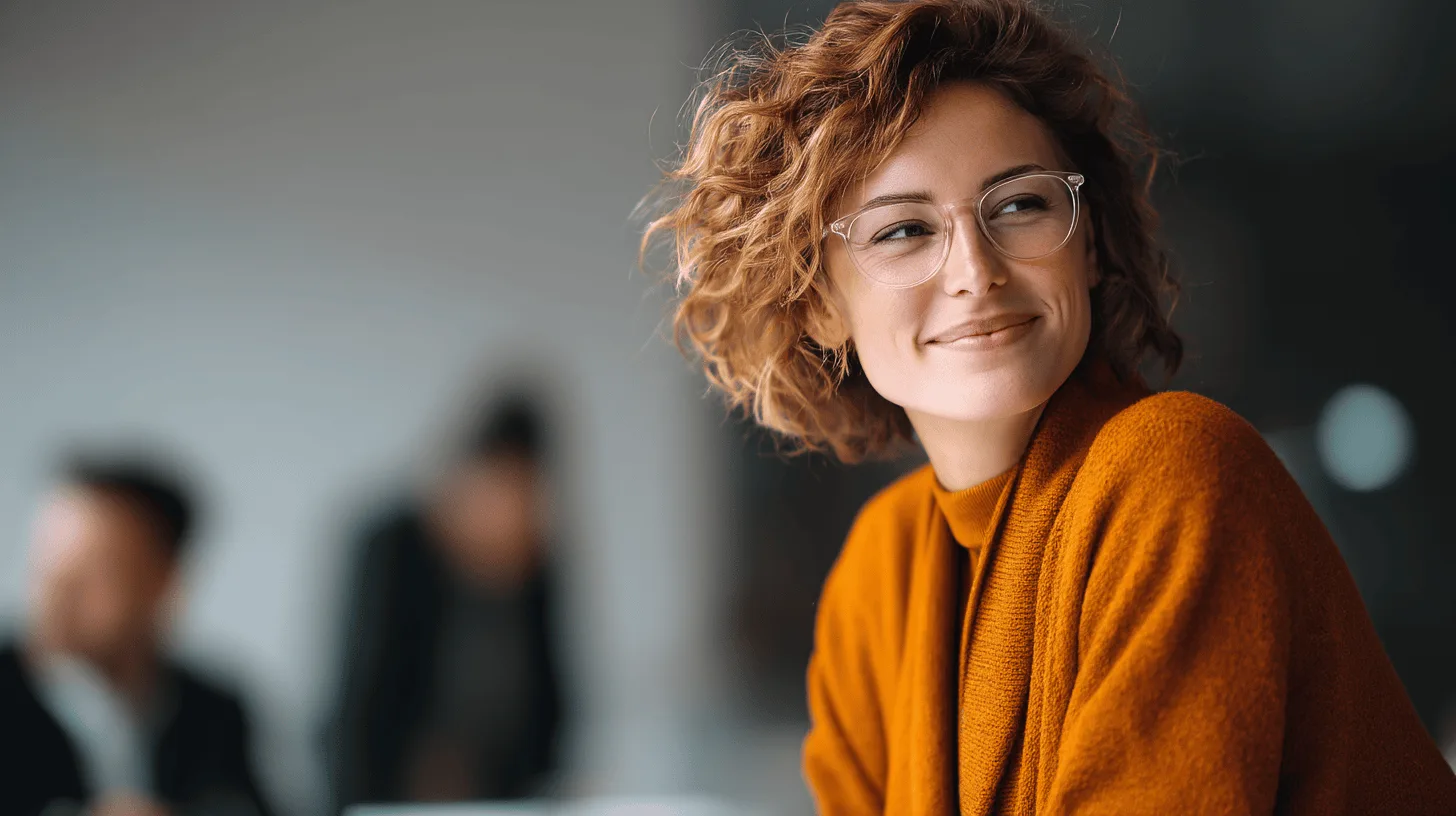
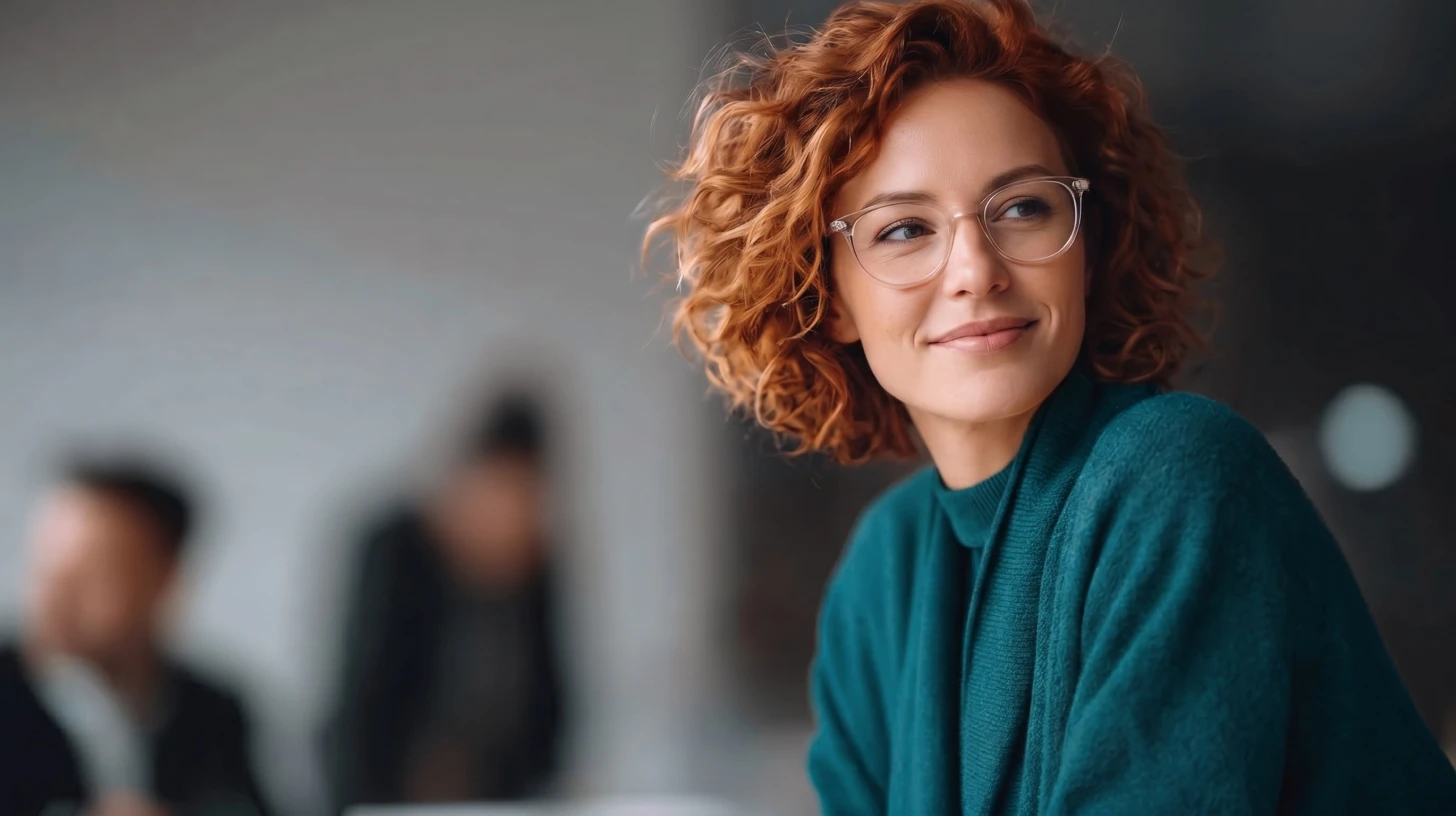
nova hero

Changed region(s): [[0.4327, 0.0, 1.0, 1.0]]

diff --git a/components/sections/PlanosChamada.tsx b/components/sections/PlanosChamada.tsx
@@ -1,5 +1,47 @@
-/** Chamada dos planos, logo antes do trilho. */
-export function PlanosChamada() {
+import type { ComponentChildren } from "preact";
+
+/**
+ * Chamada dos planos.
+ *
+ * Em duas formas. A padrão traz a colagem ao lado do texto e serve de
+ * abertura para o trilho de planos. A `centralizada` tira a colagem, alinha
+ * o texto ao centro e recebe conteúdo abaixo — usada quando a chamada
+ * apresenta o carrossel de heros em vez do trilho de preços.
+ *
+ * Na forma centralizada o botão "Ver planos" sai: ali embaixo vem o
+ * carrossel, e um botão que leva para outra página no meio do caminho
+ * disputaria com ele.
+ */
+export function PlanosChamada(
+  { centralizada = false, children }: {
+    centralizada?: boolean;
+    children?: ComponentChildren;
+  } = {},
+) {
+  const texto = (
+    <>
+      <span class="tagline">Planos simplificados</span>
+      <h2 class="title">
+        <b>Plano simples</b>, infinitas <em>possibilidades</em>
+      </h2>
+      <p class="para">
+        Escolha um plano que se adapte às suas necessidades. Economize e
+        simplifique seus custos
+      </p>
+    </>
+  );
+
+  if (centralizada) {
+    return (
+      <section class="section">
+        <div class="conteudo">
+          <div class="chamada-centro">{texto}</div>
+        </div>
+        {children}
+      </section>
+    );
+  }
+
   return (
     <>
       {/* ══════ 7 · COLAGEM VERTICAL ══════ */}
@@ -7,14 +49,7 @@ export function PlanosChamada() {
         <div class="conteudo">
           <div class="split split--rev">
             <div>
-              <span class="tagline">Planos simplificados</span>
-              <h2 class="title">
-                <b>Plano simples</b>, infinitas <em>possibilidades</em>
-              </h2>
-              <p class="para">
-                Escolha um plano que se adapte às suas necessidades. Economize e
-                simplifique seus custos
-              </p>
+              {texto}
               <button type="button" class="cta">
                 Ver planos
                 <span class="badge">

diff --git a/static/scripts.js b/static/scripts.js
@@ -183,11 +183,51 @@
     return true;
   };
 
-  chips.forEach(c=>c.addEventListener('click',()=>{
+  const marcar=c=>{
     chips.forEach(x=>x.setAttribute('aria-pressed','false'));
     c.setAttribute('aria-pressed','true');
+  };
+
+  chips.forEach(c=>c.addEventListener('click',()=>{
+    parar(); pausado=true;          /* clicou: a partir daqui quem manda é a pessoa */
+    marcar(c);
     if(c.dataset.hero)show(c.dataset.hero);
   }));
+
+  /* Autoplay dos chips. Mesmos cuidados da faixa de depoimentos: só roda
+     com a seção na tela, para no ponteiro e no foco, e não roda se o
+     sistema pede menos movimento. Um clique encerra de vez — depois de a
+     pessoa escolher um hero, trocar sozinho seria atrapalhar. */
+  let atual=chips.findIndex(c=>c.getAttribute('aria-pressed')==='true');
+  let pausado=false, visivel=false, relogio=null;
+  const semMovimento=matchMedia('(prefers-reduced-motion: reduce)');
+  const faixa=chips[0].closest('.chips-wrap')||chips[0].parentElement;
+
+  function passo(){
+    for(let i=1;i<=chips.length;i++){
+      const c=chips[(atual+i+chips.length)%chips.length];
+      if(c.dataset.hero&&show(c.dataset.hero)){
+        atual=chips.indexOf(c); marcar(c); return;
+      }
+    }
+  }
+  function tocar(){
+    parar();
+    if(pausado||!visivel||semMovimento.matches)return;
+    relogio=setInterval(passo,4500);
+  }
+  function parar(){ if(relogio){clearInterval(relogio);relogio=null;} }
+
+  if(faixa){
+    ['mouseenter','focusin'].forEach(ev=>faixa.addEventListener(ev,()=>{pausado=true;parar()}));
+    faixa.addEventListener('mouseleave',()=>{ if(!chips.some(c=>c.dataset.tocado)){pausado=false;tocar()} });
+  }
+  semMovimento.addEventListener('change',tocar);
+
+  if('IntersectionObserver' in globalThis){
+    new IntersectionObserver(e=>{visivel=e[0].isIntersecting;tocar()},{threshold:.35})
+      .observe(faixa||chips[0]);
+  } else { visivel=true; tocar(); }
 })();
 
 /* ─────────── públicos: acordeão que gira sozinho ─────────── */

diff --git a/routes/v2.tsx b/routes/v2.tsx
@@ -44,16 +44,19 @@ export default async function HomeV2() {
       }
       <Clients />
 
-      {
-        /* O palco e os chips descem para depois dela, e sem título próprio:
-           quem apresenta a página é a faixa de cima, e um segundo título
-           logo abaixo dela repetia a função. */
-      }
-      <HeroSlot />
-      <div class="conteudo">
-        <Chips />
-      </div>
       <Audience />
+
+      {
+        /* A chamada dos planos vira a introdução do carrossel: sem colagem,
+           texto centralizado, e o palco com os chips logo abaixo, dentro da
+           mesma seção. */
+      }
+      <PlanosChamada centralizada>
+        <HeroSlot />
+        <div class="conteudo">
+          <Chips />
+        </div>
+      </PlanosChamada>
       <CuidaDeTudo
         titulo={
           <>
@@ -62,7 +65,6 @@ export default async function HomeV2() {
         }
       />
       <AreaCliente />
-      <PlanosChamada />
       <Planos />
       <Parceiros />
       <Faq />

diff --git a/components/heroes/HeroFoto.tsx b/components/heroes/HeroFoto.tsx
@@ -30,9 +30,9 @@ export function HeroFoto({ cabecalho }: { cabecalho?: ComponentChildren }) {
       <div class="heroB__corpo">
         <h1 class="heroB__titulo">Bem-vindo a sua nova nuvem</h1>
         <p class="heroB__texto">
-          Pronta para hospedar seus sites e apps feitos na sua I.A, WordPress
-          com Elementor Pro oficial e e-mail profissional. Em um único painel
-          você gerencia seus projetos, clientes e finanças.
+          Pronta para hospedar sites e apps feitos na sua I.A. WordPress
+          com Elementor Pro e E-mail profissional. Em um único painel
+          pra você gerenciar seus projetos, clientes e finanças.
         </p>
         <div class="heroB__acoes">
           <a class="heroB__cta" href="/planos">Ver planos</a>

diff --git a/static/styles.css b/static/styles.css
@@ -1668,3 +1668,12 @@ body{background:var(--surface);color:var(--ink);font-family:var(--font);-webkit-
   transition:background var(--t),width var(--t);
 }
 .depo__pontos span.is-on{width:20px;border-radius:var(--r-pill);background:var(--ink)}
+
+/* Chamada centralizada: quando a seção apresenta o carrossel abaixo dela,
+   em vez de ficar ao lado de uma colagem. */
+.chamada-centro{
+  display:flex;flex-direction:column;align-items:center;text-align:center;
+  max-width:62ch;margin-inline:auto;
+}
+.chamada-centro .title{max-width:20ch}
+.chamada-centro .para{margin-top:18px;max-width:52ch}
